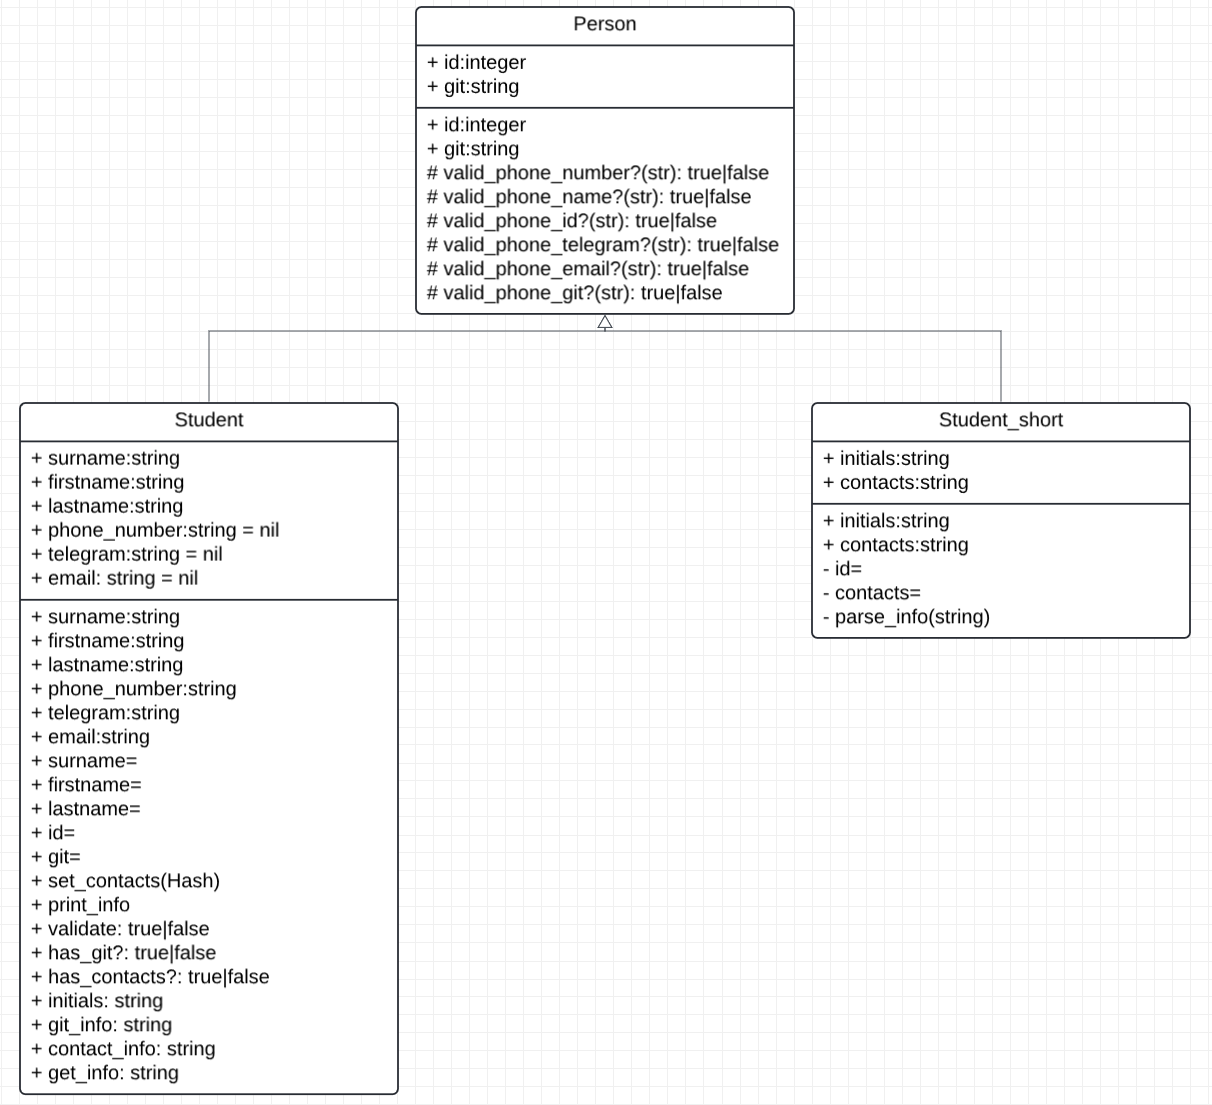
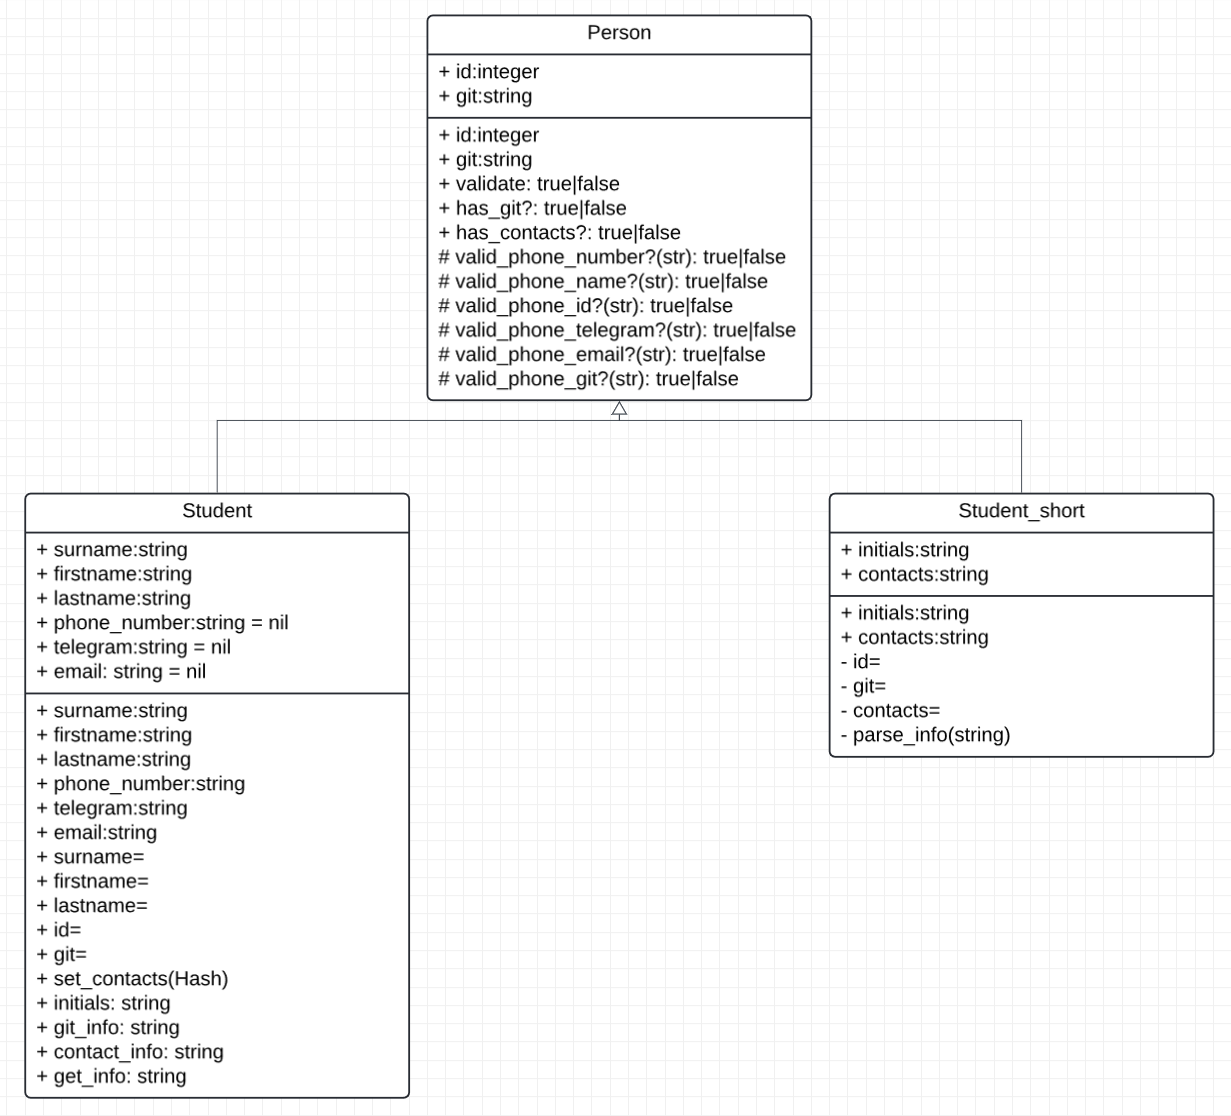
Корректировки методов классов
Метод validate и используемые им методы вынесены в класс Person.

Изменены данные для проверки.

Диаграмма классов обновлена для соответствия изменениям методов.

Changed region(s): [[0.3358, 0.0, 1.0, 0.6769], [0.0, 0.3385, 0.3358, 1.0]]

diff --git a/Kernel Classes and Models (Lab 2)/Person.rb b/Kernel Classes and Models (Lab 2)/Person.rb
@@ -1,6 +1,21 @@
 class Person
 	attr_reader :id, :git
 
+	# Проверка наличия гита и контактов
+	def validate
+		has_git? && has_contacts?
+	end	
+
+	# Проверка наличия гита
+	def has_git?
+		!@git.nil?
+	end
+
+	# Проверка наличия хотя бы одного из контактов
+	def has_contacts?
+		raise NotImplementedError, "Метод не реализован в классе Person"
+	end
+
 	protected
 
 	# Метод валидации номера телефона

diff --git a/Kernel Classes and Models (Lab 2)/Student.rb b/Kernel Classes and Models (Lab 2)/Student.rb
@@ -81,17 +81,7 @@ class Student < Person
 		(@git ? "\nGit: #{@git}" : "")+\
 		"\n------------------"
 	end
-
-	# Проверка наличия гита и контактов
-	def validate
-		has_git? && has_contacts?
-	end	
-
-	# Проверка наличия гита
-	def has_git?
-		!@git.nil?
-	end
-
+	
 	# Проверка наличия хотя бы одного из контактов
 	def has_contacts?
 		!@phone_number.nil? || !@telegram.nil? || !@email.nil?

diff --git a/Kernel Classes and Models (Lab 2)/Student_short.rb b/Kernel Classes and Models (Lab 2)/Student_short.rb
@@ -86,4 +86,9 @@ class Student_short < Person
 			raise ArgumentError, "Неверный формат контактов"
 		end
 	end
+
+	# Проверка наличия хотя бы одного из контактов
+	def has_contacts?
+		!@contacts.nil?
+	end
 end

diff --git a/Kernel Classes and Models (Lab 2)/main.rb b/Kernel Classes and Models (Lab 2)/main.rb
@@ -29,3 +29,6 @@ puts maxim.contacts
 oleg = Student_short.new(id: 20, contacts: "Красный О.О.;;")
 puts "\nStudent_short 3:"
 puts oleg.initials
+
+puts "\nvalidate для ivan: #{ivan.validate}"
+puts "\nvalidate для sereja: #{sereja.validate}"
